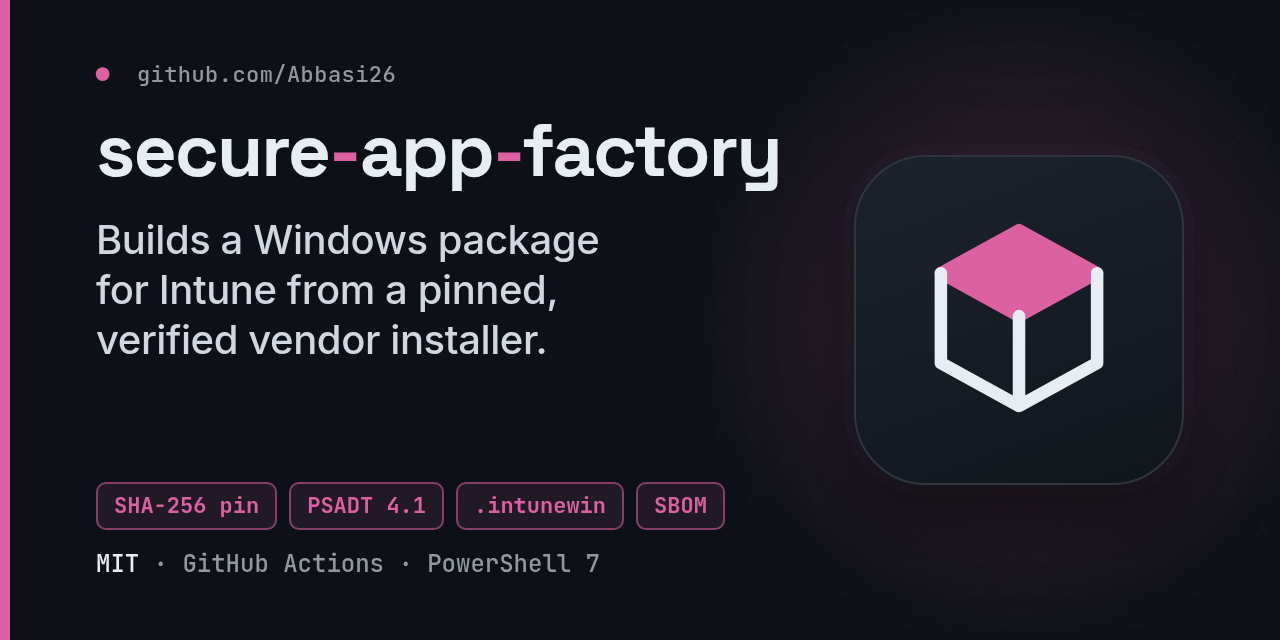
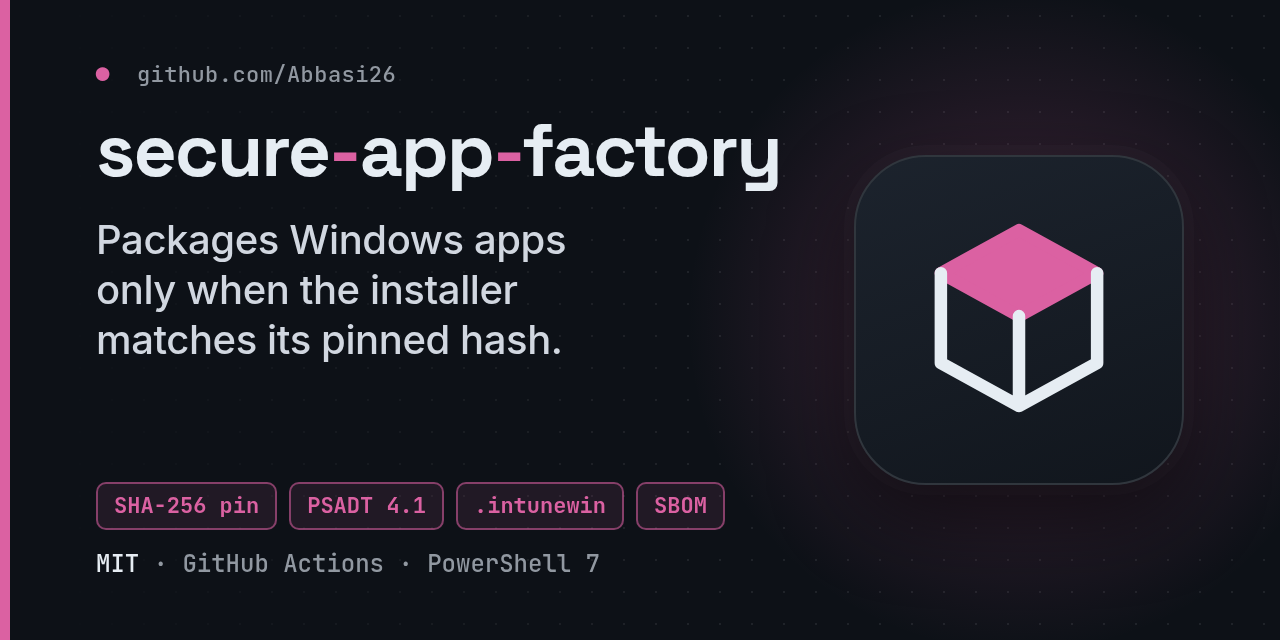
docs: update README header and hero from revised assets
Replaces the hero image, social preview and README header block with the revised design; the original title and the rest of the README are unchanged.

Changed region(s): [[0.0625, 0.3438, 0.4688, 0.5625]]

diff --git a/README.md b/README.md
@@ -6,7 +6,7 @@
   </picture>
 </p>
 
-<p align="center">Builds a Windows package for Intune from a pinned, verified vendor installer.</p>
+<p align="center">Packages Windows apps only when the installer matches its pinned hash.</p>
 
 <p align="center">
   <img src="docs/assets/readme-hero.png" width="800" alt="Terminal output of the offline Secure App Factory demo: package report for 7-Zip 26.04 with SHA-256, manifest pin and Authenticode checks, SBOM and provenance, then an offline catalog lint with 0 errors.">
